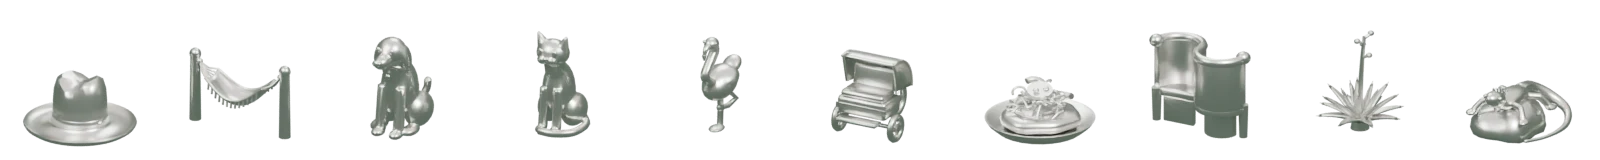
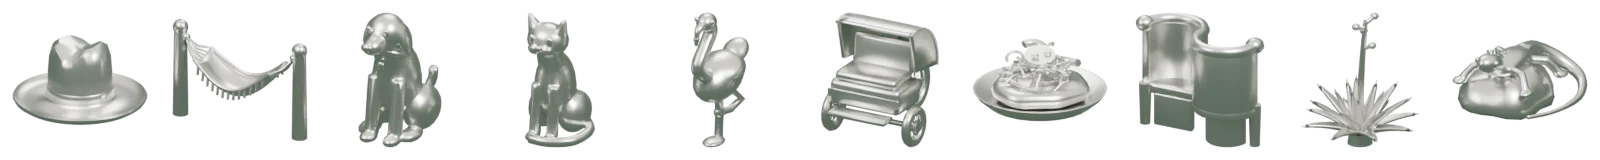
Mérida: fichas del selector más grandes y centradas; el nombre aparece con animación solo en la elegida

diff --git a/c_merida.js b/c_merida.js
@@ -16,7 +16,7 @@ const fiTom=()=>new Set((V.players||[]).filter((p,j)=>j!==V.me&&!p.out&&p.fi).ma
 function fiSel(id){try{localStorage.setItem('mr_ficha',id)}catch(e){}if(fiTom().has(id)||V.G)return;send({t:'fi',fi:id})}
 let fiPed='';function fiAuto(){const yo=(V.players||[])[V.me],q=fiMia();if(!yo||V.G||!q||yo.fi===q||fiPed===q||fiTom().has(q))return;fiPed=q;send({t:'fi',fi:q})}
 const ficha={key:()=>JSON.stringify((V.players||[]).map(p=>p.fi||''))+V.me,ico:()=>tk(V.me),
- html:()=>{const tom=fiTom(),mia=FI[ti(V.me)];return `<div class="sl-cajas">${D.tok.map(([n,id],i)=>`<button class="sl-caja${id===mia?' on':''}" style="--f:var(--sl-c)"${tom.has(id)?' disabled':''} onclick="MR.fiSel('${id}')" aria-pressed="${id===mia}"><span class="ic"><i class="sl-spr" style="background-image:url(modelos/merida/fichas_ico.webp?v=1);background-position-x:${i*100/(D.tok.length-1)}%"></i></span><b>${esc(n)}</b></button>`).join('')}</div>`}};
+ html:()=>{const tom=fiTom(),mia=FI[ti(V.me)];return `<div class="sl-cajas sl-fi">${D.tok.map(([n,id],i)=>`<button class="sl-caja${id===mia?' on':''}" style="--f:var(--sl-c)"${tom.has(id)?' disabled':''} onclick="MR.fiSel('${id}')" aria-pressed="${id===mia}"><span class="ic"><i class="sl-spr" style="background-image:url(modelos/merida/fichas_ico.webp?v=2);background-position-x:${i*100/(D.tok.length-1)}%"></i></span><b>${esc(n)}</b></button>`).join('')}</div>`}};
 const pnm=k=>k>=0&&V.G.players[k]?esc(V.G.players[k].name):'el banco';
 let sel=-1,TR={to:-1,ap:[],bp:[],ac:0,bc:0,aj:0,bj:0},aucEnd=0,aucId=-1,winN=-1;
 // ---- estilos (los del 2D y los del panel del 3D) ----

diff --git a/ui_sala.css b/ui_sala.css
@@ -51,7 +51,12 @@ html[data-tema=noche] #sala{--sl-bg:color-mix(in srgb,var(--sl-c) 24%,#111214);-
 .sl-caja::before{content:"";position:absolute;inset:0;background:linear-gradient(120deg,rgba(255,255,255,.18),transparent 42%);pointer-events:none}
 .sl-caja .ic svg,.sl-caja .ic img{display:block;width:44px;height:44px;filter:drop-shadow(0 2px 2px rgba(0,0,0,.28))}
 .sl-caja .ic .sl-emo{font-size:30px}
-.sl-caja .ic .sl-spr{display:block;width:64px;height:64px;margin:-8px 0 -4px;background:0 0/1000% 100% no-repeat;filter:drop-shadow(0 2px 2px rgba(0,0,0,.35))}
+.sl-caja .ic .sl-spr{display:block;width:80px;height:80px;background:0 0/1000% 100% no-repeat;filter:drop-shadow(0 3px 3px rgba(0,0,0,.35))}
+.sl-fi .sl-caja{align-items:center;justify-content:center;padding:6px}
+.sl-fi .sl-caja .ic{transition:transform .28s cubic-bezier(.3,1.4,.5,1)}
+.sl-fi .sl-caja b{position:absolute;left:0;right:0;bottom:9px;text-align:center;opacity:0;transform:translateY(8px) scale(.9);transition:opacity .2s,transform .28s cubic-bezier(.3,1.4,.5,1)}
+.sl-fi .sl-caja.on .ic{transform:translateY(-10px) scale(.92)}
+.sl-fi .sl-caja.on b{opacity:1;transform:none}
 .sl-caja b{position:relative;font:900 13px/1.1 var(--ui-font);text-shadow:0 1px 2px rgba(0,0,0,.35)}
 .sl-caja:active{transform:scale(.96)}
 .sl-caja:disabled{opacity:.35;cursor:default}

diff --git a/blender/merida_fichas.py b/blender/merida_fichas.py
@@ -621,6 +621,14 @@ def iconos(out=None):
     cam.location = (0, -dist * math.cos(el), dist * math.sin(el) + cz)
     cam.rotation_euler = (Vector((0, 0, cz)) - cam.location).to_track_quat('-Z', 'Y').to_euler()
     sc.render.resolution_x, sc.render.resolution_y = len(obs) * px, px
+    # cada ficha llena su celda y queda centrada (cámara ortográfica: se mide en el plano de la cámara)
+    bpy.context.view_layer.update(); ci = cam.matrix_world.inverted(); R = cam.matrix_world.to_3x3()
+    for i, o in enumerate(obs):
+        ps = [ci @ (o.matrix_world @ v.co) for v in o.data.vertices]
+        x0, x1 = min(p.x for p in ps), max(p.x for p in ps); y0, y1 = min(p.y for p in ps), max(p.y for p in ps)
+        oc = ci @ o.matrix_world.translation; k = .84 * dx / max(x1 - x0, y1 - y0)
+        cx, cy = oc.x + k * ((x0 + x1) / 2 - oc.x), oc.y + k * ((y0 + y1) / 2 - oc.y)
+        o.scale = (k, k, k); o.location += R @ Vector(((i - (len(obs) - 1) / 2) * dx - cx, -cy, 0))
     try: sc.render.engine = 'CYCLES'
     except TypeError: pass
     sc.cycles.samples = 48; sc.cycles.use_denoising = True; sc.render.film_transparent = True
